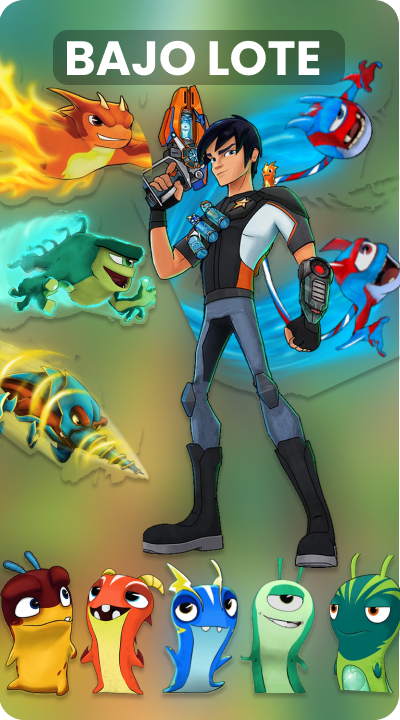
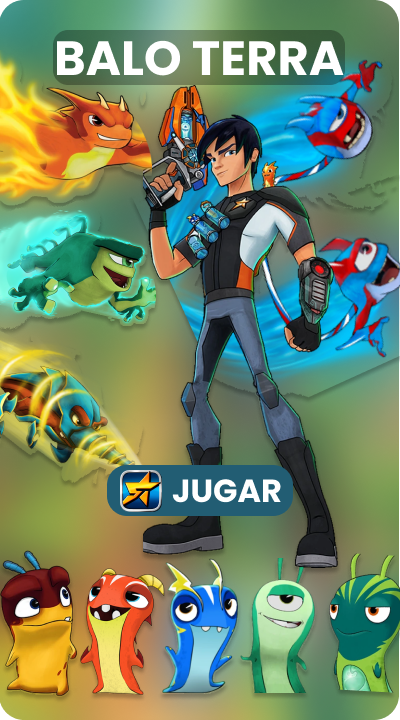
comienzo challenge

Changed region(s): [[0.12, 0.0306, 0.87, 0.1222], [0.27, 0.6417, 0.75, 0.7333]]

diff --git a/08-Javascript/25-methods-arrays.html b/08-Javascript/25-methods-arrays.html
@@ -1,0 +1,55 @@
+<!DOCTYPE html>
+<html lang="en">
+<head>
+    <meta charset="UTF-8">
+    <meta name="viewport" content="width=device-width, initial-scale=1.0">
+    <title>Methods Arrays</title>
+    <link rel="stylesheet" href="css/master.css">
+    <style>
+        section ul {
+            padding: 0;
+        }
+        section ul.emojis li {
+            display: grid;
+            grid-template-columns: 140px 260px;
+        }
+    </style>
+</head>
+<body>
+    <nav class="controls">
+        <a href="index.html">
+            <svg xmlns="http://www.w3.org/2000/svg" viewBox="0 0 448 512"><path fill="#ffffff" d="M9.4 233.4c-12.5 12.5-12.5 32.8 0 45.3l160 160c12.5 12.5 32.8 12.5 45.3 0s12.5-32.8 0-45.3L109.2 288 416 288c17.7 0 32-14.3 32-32s-14.3-32-32-32l-306.7 0L214.6 118.6c12.5-12.5 12.5-32.8 0-45.3s-32.8-12.5-45.3 0l-160 160z"/></svg>
+        </a>
+    </nav>
+    <main>
+        <header>
+            <h1>Methods Arrays</h1>
+            <h2>Manipula arreglos usando métodos.</h2>
+        </header>
+        <section>
+            <ul class="emojis"></ul>
+        </section>
+    </main>
+    <script>
+        //Elements 
+        const emojis = document.querySelector('.emojis')
+        emojis.style.fontSize = '1.6rem'
+
+        // Methods Array
+        let arrEmojis = ['👮🏻♂', '🕵🏾♂', '👨🏻🏫', '👨🏾🍳']
+        emojis.innerHTML = `<li><b>Values:</b> ${arrEmojis.valueOf()} </li>`
+        emojis.innerHTML += `<li><b>String:</b> ${arrEmojis.toString()} </li>`
+        emojis.innerHTML += `<li><b>Join:</b> ${arrEmojis.join('🤖')} </li>`
+        emojis.innerHTML += `<li><b>Sort:</b> ${arrEmojis.sort()} </li>`
+        emojis.innerHTML += `<li><b>Reverse:</b> ${arrEmojis.reverse()} </li>`
+        arrEmojis.unshift('👨🏻🚒')
+        emojis.innerHTML += `<li><b>Unshift:</b> ${arrEmojis.valueOf()} </li>`
+        arrEmojis.push('👨🏻🚀')
+        emojis.innerHTML += `<li><b>Push:</b> ${arrEmojis.valueOf()} </li>`
+        arrEmojis.shift('')
+        emojis.innerHTML += `<li><b>Shift:</b> ${arrEmojis.valueOf()} </li>`
+        arrEmojis.pop('')
+        emojis.innerHTML += `<li><b>Pop:</b> ${arrEmojis.valueOf()} </li>`
+    </script>
+</body>
+</html>

diff --git a/08-Javascript/24-methods-dates.html b/08-Javascript/24-methods-dates.html
@@ -1,0 +1,49 @@
+<!DOCTYPE html>
+<html lang="en">
+<head>
+    <meta charset="UTF-8">
+    <meta name="viewport" content="width=device-width, initial-scale=1.0">
+    <title>Methods Dates</title>
+    <link rel="stylesheet" href="css/master.css">
+</head>
+<body>
+    <nav class="controls">
+        <a href="index.html">
+            <svg xmlns="http://www.w3.org/2000/svg" viewBox="0 0 448 512"><path fill="#ffffff" d="M9.4 233.4c-12.5 12.5-12.5 32.8 0 45.3l160 160c12.5 12.5 32.8 12.5 45.3 0s12.5-32.8 0-45.3L109.2 288 416 288c17.7 0 32-14.3 32-32s-14.3-32-32-32l-306.7 0L214.6 118.6c12.5-12.5 12.5-32.8 0-45.3s-32.8-12.5-45.3 0l-160 160z"/></svg>
+        </a>
+    </nav>
+    <main>
+        <header>
+            <h1>Methods Dates</h1>
+            <h2>Description.</h2>
+        </header>
+        <section>
+            <h3>Methods Set/Get:</h3>
+            <ul class="methods"></ul>
+        </section>
+    </main>
+    <script>
+        // Elements
+        const methods = document.querySelector('.methods')
+
+        // Methods Set
+        let worldcup2026 = new Date('10-30-2028 08:00:00')
+        //console.log(worldcup2026)
+        worldcup2026.setMonth(5)
+        worldcup2026.setDate(11)
+        worldcup2026.setFullYear(2026)
+        //console.log(worldcup2026)
+
+        // Methods Get
+        methods.style.zoom = '1.4'
+        methods.innerHTML = `<li>Date Next Fifa WorldCup:<br>
+                                ${worldcup2026.getDate()}/
+                                0${worldcup2026.getMonth()+1}/
+                                ${worldcup2026.getFullYear()}
+                                0${worldcup2026.getHours()}:
+                                0${worldcup2026.getMinutes()}</li>
+                                </li>
+                                `
+    </script>
+</body>
+</html>

diff --git a/08-Javascript/26-challenge-arrays.html b/08-Javascript/26-challenge-arrays.html
@@ -1,0 +1,28 @@
+<!DOCTYPE html>
+<html lang="en">
+<head>
+    <meta charset="UTF-8">
+    <meta name="viewport" content="width=device-width, initial-scale=1.0">
+    <title>Challenge Array</title>
+    <link rel="stylesheet" href="css/master.css">
+</head>
+<body>
+    <nav class="controls">
+        <a href="index.html">
+            <svg xmlns="http://www.w3.org/2000/svg" viewBox="0 0 448 512"><path fill="#ffffff" d="M9.4 233.4c-12.5 12.5-12.5 32.8 0 45.3l160 160c12.5 12.5 32.8 12.5 45.3 0s12.5-32.8 0-45.3L109.2 288 416 288c17.7 0 32-14.3 32-32s-14.3-32-32-32l-306.7 0L214.6 118.6c12.5-12.5 12.5-32.8 0-45.3s-32.8-12.5-45.3 0l-160 160z"/></svg>
+        </a>
+    </nav>
+    <main>
+        <header>
+            <h1>Challenge Array</h1>
+            <h2>Bajoterra.</h2>
+        </header>
+        <section>
+
+        </section>
+    </main>
+    <script>
+        
+    </script>
+</body>
+</html>

diff --git a/08-Javascript/23-challenge-baloto.html b/08-Javascript/23-challenge-baloto.html
@@ -116,7 +116,16 @@
 </head>
 
 <body>
+    <nav class="controls">
+        <a href="index.html">
+            <svg xmlns="http://www.w3.org/2000/svg" viewBox="0 0 448 512"><path fill="#ffffff" d="M9.4 233.4c-12.5 12.5-12.5 32.8 0 45.3l160 160c12.5 12.5 32.8 12.5 45.3 0s12.5-32.8 0-45.3L109.2 288 416 288c17.7 0 32-14.3 32-32s-14.3-32-32-32l-306.7 0L214.6 118.6c12.5-12.5 12.5-32.8 0-45.3s-32.8-12.5-45.3 0l-160 160z"/></svg>
+        </a>
+    </nav>
     <main>
+        <header>
+            <h1>Challenge Baloto</h1>
+            <h2>BALO TERRA</h2>
+        </header>
         <section>
             <div class="screen" id="screen1" style="background-image: url('images/baloto/bajolote.png');">
                 <button class="btn-enter" onclick="goToScreen(2)"></button>

diff --git a/08-Javascript/index.html b/08-Javascript/index.html
@@ -141,6 +141,22 @@
             {
                 url: '29-pop-up-windows.html', 
                 text: 'Pop-Up Windows'
+            },
+            {
+                url: '30-localstorage.html', 
+                text: 'LocalStorage'
+            },
+            {
+                url: '31-map-filter-reduce.html', 
+                text: 'Map Filter Reduce'
+            },
+            {
+                url: '32-json-data.html', 
+                text: 'JSON Data'
+            },
+            {
+                url: '33-onenterframe.html', 
+                text: 'Enter Frame'
             }
         ] 
  

diff --git a/index.html b/index.html
@@ -51,10 +51,14 @@
             </a>
             <a href="" class="disabled">
                 <i>10</i>
-                <span>Node JS</span>
+                <span>TypeScript</span>
             </a>
             <a href="" class="disabled">
                 <i>11</i>
+                <span>Node JS</span>
+            </a>
+            <a href="" class="disabled">
+                <i>12</i>
                 <span>React JS</span>
             </a>
         </menu>

diff --git a/08-Javascript/css/master.css b/08-Javascript/css/master.css
@@ -45,7 +45,7 @@ main{
         flex-direction: column;
         align-items: center;
         h1, h2 {
-            color: rgb(59, 59, 59);
+            color: rgb(32, 32, 32);
             text-align: center;
             margin: 0;
         }
@@ -110,7 +110,7 @@ main{
     section {
         border-radius: 10px;
         background-color: #fff9;
-        color: #0009;
+        color: #000000da;
         padding: 10px;
         width: 400px;
         h3 {
